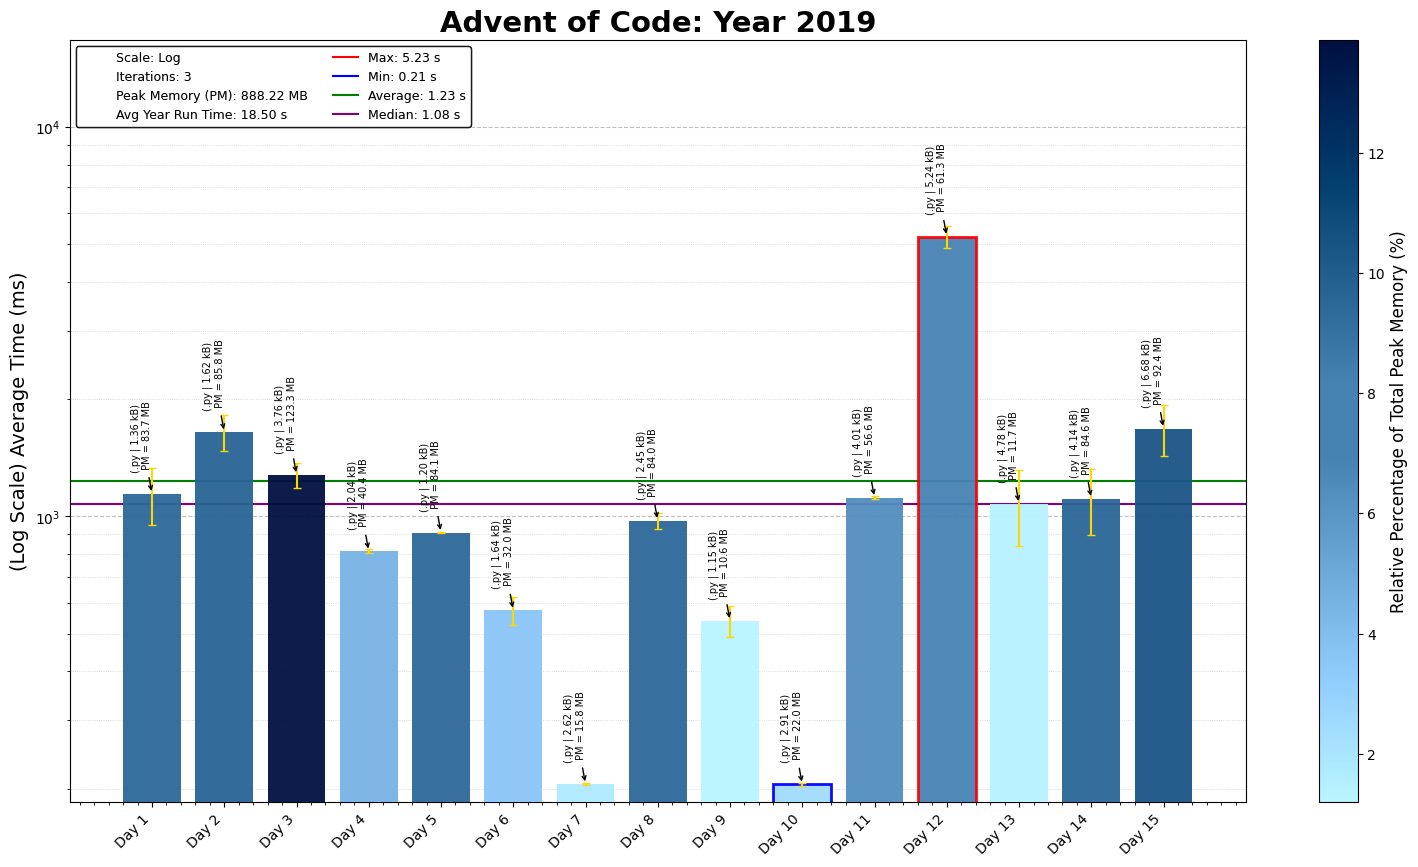
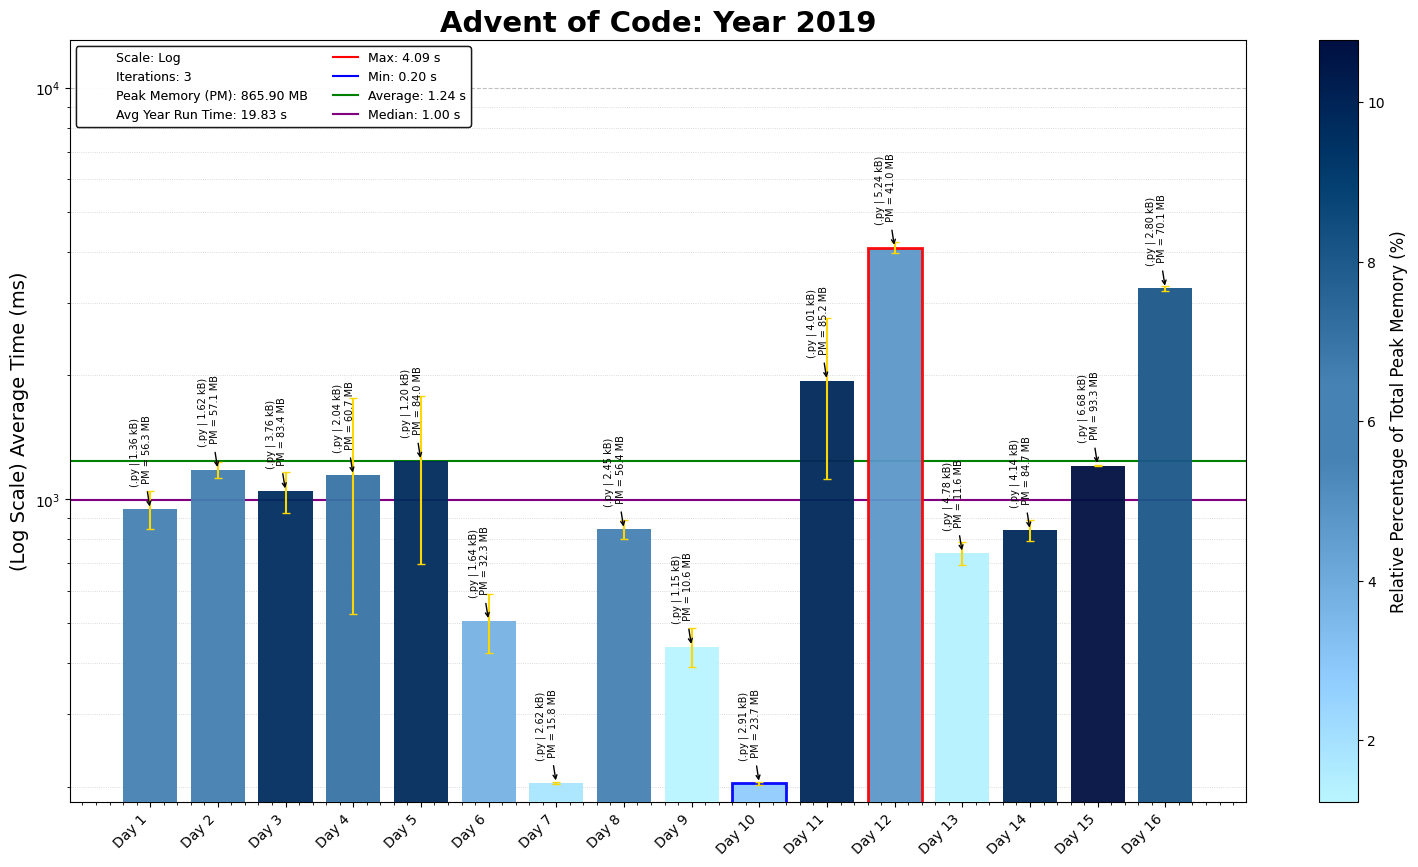
2019 Day 16 P1

diff --git a/2019/16/2019Day16.py b/2019/16/2019Day16.py
@@ -1,0 +1,72 @@
+"""Advent of Code - Day 16, Year 2019
+Solution Started: Jan 27, 2025
+Puzzle Link: https://adventofcode.com/2019/day/16
+Solution by: abbasmoosajee07
+Brief: [Numbers and Sequences]
+"""
+
+#!/usr/bin/env python3
+
+import os, re, copy, time
+import numpy as np
+import pandas as pd
+import matplotlib.pyplot as plt
+
+start_time = time.time()
+# Load the input data from the specified file path
+D16_file = "Day16_input.txt"
+D16_file_path = os.path.join(os.path.dirname(os.path.abspath(__file__)), D16_file)
+
+# Read and sort input data into a grid
+with open(D16_file_path) as file:
+    input_data = file.read().strip().split()
+    input_seq  = list(map(int, input_data[0]))
+
+def analyse_signal(init_sequence: list[int], total_phases: int = 5) -> int:
+    def __build_pattern_matrix(seq_len: int):
+        """Builds a matrix of patterns for all positions."""
+        BASE_PATTERN = [0, 1, 0, -1]
+        matrix = {}
+        for idx in range(1, seq_len + 1):
+            pattern = []
+            for num in BASE_PATTERN:
+                pattern.extend([num] * idx)  # Repeat each base value `idx` times
+            # Skip the first element and trim the pattern to sequence length
+            pattern = pattern[1:] + pattern[:1]
+            while len(pattern) <= seq_len:
+                pattern.extend(pattern)
+            pattern_list = pattern[:seq_len]  # Trim the pattern to the sequence length
+            matrix[idx] = {pos: pattern_list[pos] for pos in range(seq_len)}
+        return matrix
+
+    def __run_phase(start_seq: dict, pattern_matrix: dict) -> dict:
+        """Runs one phase of the signal analysis."""
+        out_seq = {}
+        for pos_1, num_1 in start_seq.items():
+            pattern_sel = pattern_matrix[pos_1]
+            num_sum = 0
+            for pos_2, num_2 in start_seq.items():
+                # Use pattern matrix for multiplication
+                pattern_num = pattern_sel[pos_2 - 1]
+                num_sum += num_2 * pattern_num
+            out_seq[pos_1] = abs(num_sum) % 10  # Keep only the last digit
+        return out_seq
+
+    # Initialize sequence and pattern matrix
+    init_len = len(init_sequence)
+    current_sequence = {pos: num for pos, num in enumerate(init_sequence, start=1)}
+    pattern_matrix = __build_pattern_matrix(init_len)
+
+    # Process the sequence through all phases
+    for phase in range(total_phases):
+        current_sequence = __run_phase(current_sequence, pattern_matrix)
+        # print(f"Phase {phase + 1}: Start of Sequence: {''.join(map(str, list(current_sequence.values())[:8]))}")
+
+    output_sequence = current_sequence.copy()
+    return list(output_sequence.values())
+
+final_output = analyse_signal(input_seq, 100)
+print("Part 1:", ''.join(map(str, final_output[:8])))
+
+# print(f"Execution Time = {time.time() - start_time:.5f}s")
+
